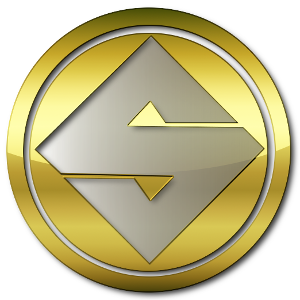
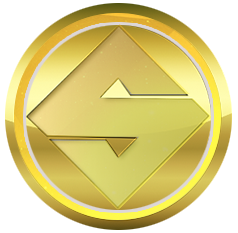
Graphical updates, about screen update, checkpoints, seeds, version tick.

diff --git a/src/checkpoints.cpp b/src/checkpoints.cpp
@@ -24,8 +24,34 @@ namespace Checkpoints
     //
     static MapCheckpoints mapCheckpoints =
         boost::assign::map_list_of
-        (     0, hashGenesisBlockOfficial )
-		;
+        (     0, hashGenesisBlockOfficial ) // v 2.0.0.0
[26 lines of base64/hex data omitted]
+        ;
 
     static MapCheckpoints mapCheckpointsTestnet =
         boost::assign::map_list_of

diff --git a/src/net.cpp b/src/net.cpp
@@ -78,6 +78,7 @@ static CSemaphore *semOutbound = NULL;
 
 void AddOneShot(string strDest)
 {
+    printf("ONESHOT: %s\n", strDest.c_str());
     LOCK(cs_vOneShots);
     vOneShots.push_back(strDest);
 }
@@ -1153,8 +1154,12 @@ void MapPort()
 // Each pair gives a source name and a seed name.
 // The first name is used as information source for addrman.
 // The second name should resolve to a list of seed addresses.
-static const char *strDNSSeed[][2] = {
-    {"192.227.251.74", "192.227.251.74"},
+static const char *strDNSSeed[][3] = {
+    {
+        "54.187.81.241",  // dfletcher
+        "178.79.171.188", // serversides
+        "192.227.251.74"  // original
+    },
 };
 
 void ThreadDNSAddressSeed(void* parg)
@@ -1189,11 +1194,11 @@ void ThreadDNSAddressSeed2(void* parg)
 
         for (unsigned int seed_idx = 0; seed_idx < ARRAYLEN(strDNSSeed); seed_idx++) {
             if (HaveNameProxy()) {
-                AddOneShot(strDNSSeed[seed_idx][1]);
+                AddOneShot(strDNSSeed[seed_idx][seed_idx]);
             } else {
                 vector<CNetAddr> vaddr;
                 vector<CAddress> vAdd;
-                if (LookupHost(strDNSSeed[seed_idx][1], vaddr))
+                if (LookupHost(strDNSSeed[seed_idx][seed_idx], vaddr))
                 {
                     BOOST_FOREACH(CNetAddr& ip, vaddr)
                     {
@@ -1204,7 +1209,7 @@ void ThreadDNSAddressSeed2(void* parg)
                         found++;
                     }
                 }
-                addrman.Add(vAdd, CNetAddr(strDNSSeed[seed_idx][0], true));
+                addrman.Add(vAdd, CNetAddr(strDNSSeed[seed_idx][seed_idx], true));
             }
         }
     }

diff --git a/src/qt/bitcoin.cpp b/src/qt/bitcoin.cpp
@@ -83,7 +83,7 @@ static void InitMessage(const std::string &message)
 {
     if(splashref)
     {
-        splashref->showMessage(QString::fromStdString(message), Qt::AlignBottom|Qt::AlignHCenter, QColor(255,255,200));
+        splashref->showMessage(QString::fromStdString(message), Qt::AlignBottom|Qt::AlignHCenter, QColor(103,93,17));
         QApplication::instance()->processEvents();
     }
 }

diff --git a/src/version.cpp b/src/version.cpp
@@ -8,7 +8,7 @@
 // Name of client reported in the 'version' message. Report the same name
 // for both bitcoind and bitcoin-qt, to make it harder for attackers to
 // target servers or GUI users specifically.
-const std::string CLIENT_NAME("Shibe");
+const std::string CLIENT_NAME("Trustee");
 
 // Client version number
 #define CLIENT_VERSION_SUFFIX   "-swap"

diff --git a/src/clientversion.h b/src/clientversion.h
@@ -9,7 +9,7 @@
 #define CLIENT_VERSION_MAJOR       2
 #define CLIENT_VERSION_MINOR       0
 #define CLIENT_VERSION_REVISION    0
-#define CLIENT_VERSION_BUILD       0
+#define CLIENT_VERSION_BUILD       1
 
 // Converts the parameter X to a string after macro replacement on X has been performed.
 // Don't merge these into one macro!

diff --git a/src/version.h b/src/version.h
@@ -47,6 +47,6 @@ static const int MEMPOOL_GD_VERSION = 60002;
 #define DISPLAY_VERSION_MAJOR       2
 #define DISPLAY_VERSION_MINOR       0
 #define DISPLAY_VERSION_REVISION    0
-#define DISPLAY_VERSION_BUILD       0
+#define DISPLAY_VERSION_BUILD       1
 
 #endif
